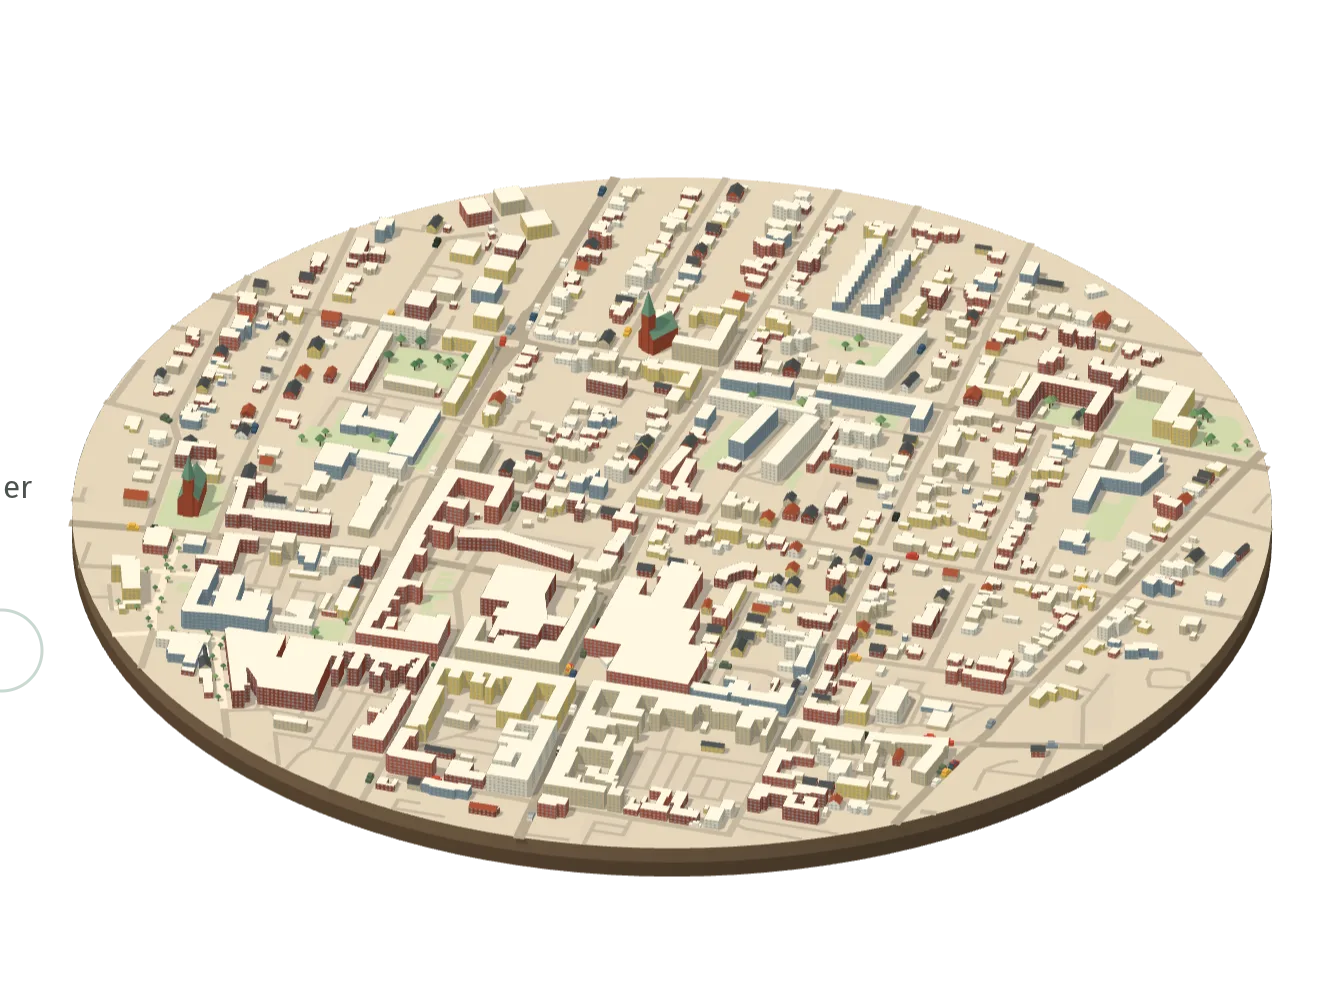
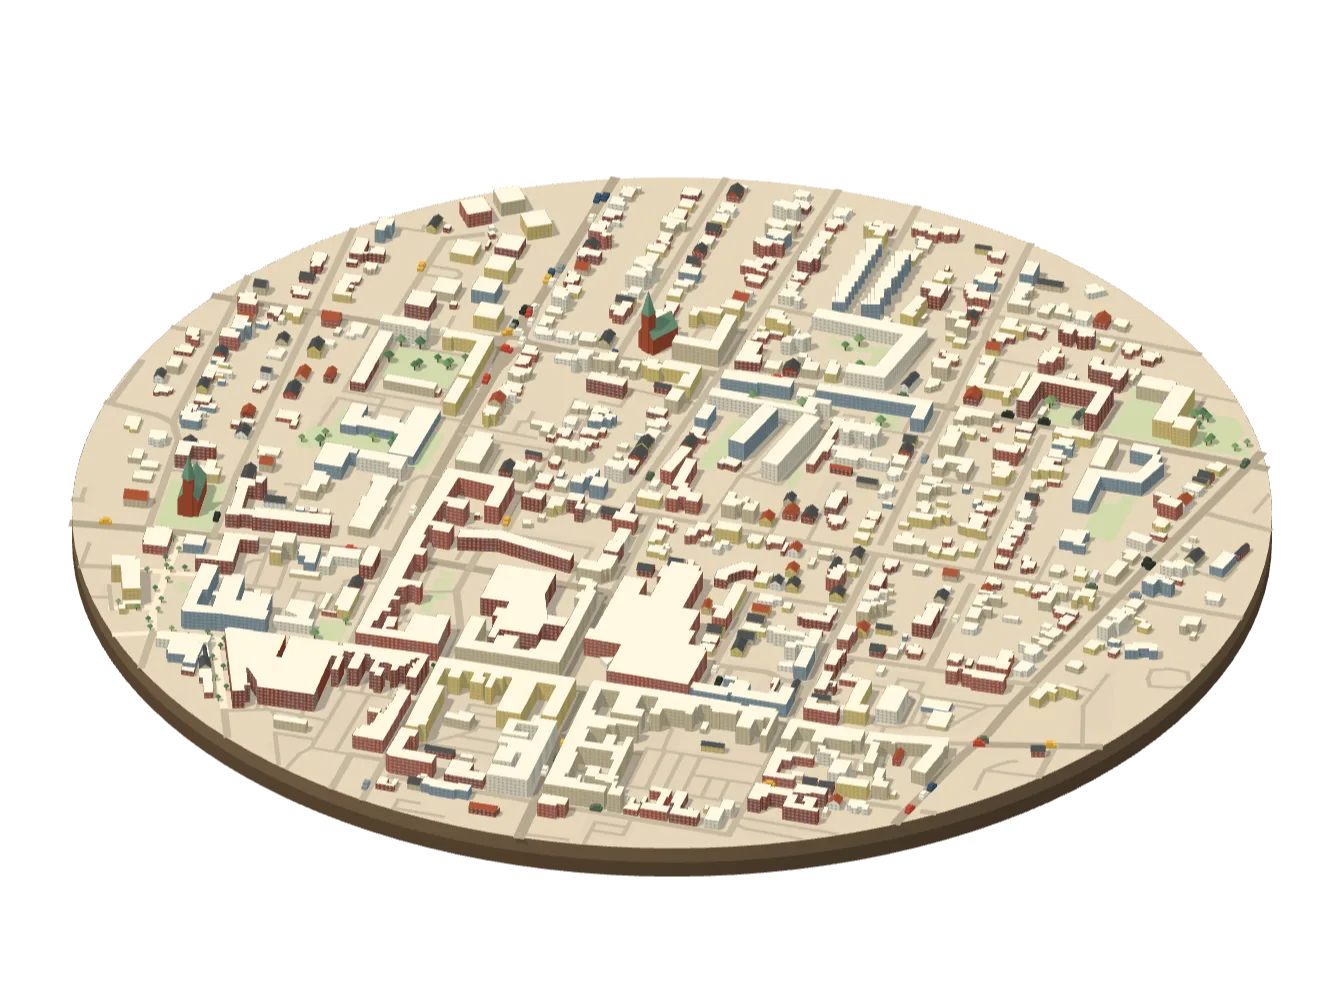
No 3D animation on phones and small tablets
- Below 64em (~1024 px, where the hero stacks) the hero always shows the
  still image; three.js and the model are never downloaded there
- ?3d still forces the live scene for testing
- Still image re-rendered without hero text bleeding in at the edge
- DEVELOPING.md: city section updated (one version, device rules table)

Claude-Session: https://claude.ai/code/session_01MdMWuTdgxqSodv6Mq6Gi3s

diff --git a/src/js/entries/city.js b/src/js/entries/city.js
@@ -1,5 +1,9 @@
 // Home page: decide whether to show the live 3D city or the still image,
 // then load three.js lazily so the hero text never waits for it.
+//
+// Rule: phones and small tablets (narrower than 64em ≈ 1024 px, where the hero
+// stacks) always get the still image. three.js and the model are never
+// downloaded there. Add ?3d to the URL to force the live scene for testing.
 const host = document.querySelector('[data-city]');
 
 function webglAvailable() {
@@ -13,7 +17,7 @@ function webglAvailable() {
 
 if (host) {
   const reducedMotion = window.matchMedia('(prefers-reduced-motion: reduce)').matches;
-  const mobile = window.matchMedia('(max-width: 64em)').matches;
+  const mobile = window.matchMedia('(max-width: 63.99em)').matches;
   const nav = navigator;
   // ?3d forces the live scene (useful for testing on slow machines).
   const force = new URLSearchParams(location.search).has('3d');
@@ -23,7 +27,7 @@ if (host) {
     (nav.deviceMemory !== undefined && nav.deviceMemory <= 2) ||
     (nav.hardwareConcurrency !== undefined && nav.hardwareConcurrency <= 2));
 
-  if (!webglAvailable() || weak) {
+  if (!webglAvailable() || weak || (mobile && !force)) {
     host.classList.add('is-static');
   } else {
     const go = () =>

diff --git a/docs/DEVELOPING.md b/docs/DEVELOPING.md
@@ -42,17 +42,18 @@ The file is only rewritten when a listing actually changed, so the scheduled job
 
 ## 3D city on the home page
 
-The hero shows a low-poly city that slowly turns and can be dragged sideways. There are two versions, switchable in the hero (and with `?city=a` / `?city=b`):
+The hero shows a low-poly model of central Herning, built from OpenStreetMap: about 600 buildings in a round 450 m cut-out around Torvet, with the churches given towers and spires, trees along the pedestrian streets, cars driving on the real roads, labels for the main streets and pins for the listings inside the cut-out. North stays up and the view sways gently; dragging sideways turns it, and it eases back.
 
-| | A: Stylised town | B: Real Herning |
-|---|---|---|
-| Source | Generated in the browser from a fixed seed (`src/js/city/town.js`) | OpenStreetMap, pre-built into `public/city/herning.bin` by `scripts/city/build-herning.mjs` |
-| Size | No data file | ~0.5–1 MB binary (quantised positions, shared wall vertices) |
-| Pins | Listings placed by relative position | Listings at their real location (only those inside the 560 m cut-out) |
+| Device | What it gets |
+|---|---|
+| Laptop and desktop (1024 px and wider) with WebGL | The live 3D scene, loaded after the page is idle |
+| **Phones and small tablets (narrower than 1024 px)** | **Always the still image** (`public/city/still.webp`); three.js and the model are never downloaded |
+| *Reduce motion* switched on | A still frame of the live scene |
+| No WebGL, ≤2 CPU cores, ≤2 GB memory or data-saver | The still image |
 
-Both use one merged mesh and one material (`src/js/city/material.js`). Windows are drawn by the shader on walls, not modelled, and buildings "grow" out of the ground on load. The scene pauses when it's off-screen or the tab is hidden. With *reduce motion* switched on it shows a still frame. On devices without WebGL, with ≤2 CPU cores or ≤2 GB memory, or with data-saver on, it shows a pre-rendered image (`public/city/still-*.webp`) instead. Add `?3d` to the URL to force the live scene.
+Add `?3d` to the URL to force the live scene anywhere (useful for testing).
 
-`.github/workflows/build-city.yml` rebuilds the real-Herning model and both still images whenever the city code changes (or on demand from the Actions tab), and commits them. Map data © OpenStreetMap contributors (ODbL); the credit is shown on the page whenever version B is visible.
+`scripts/city/build-herning.mjs` builds `public/city/herning.bin` (quantised positions, shared wall vertices, plus roads, rail and labels in the header), and `scripts/city/render-stills.mjs` renders the still image. `.github/workflows/build-city.yml` runs both on feature branches whenever the city code changes, or on demand from the Actions tab, and commits the results. Map data © OpenStreetMap contributors (ODbL); the credit is shown under the scene.
 
 ## Deploying
 
